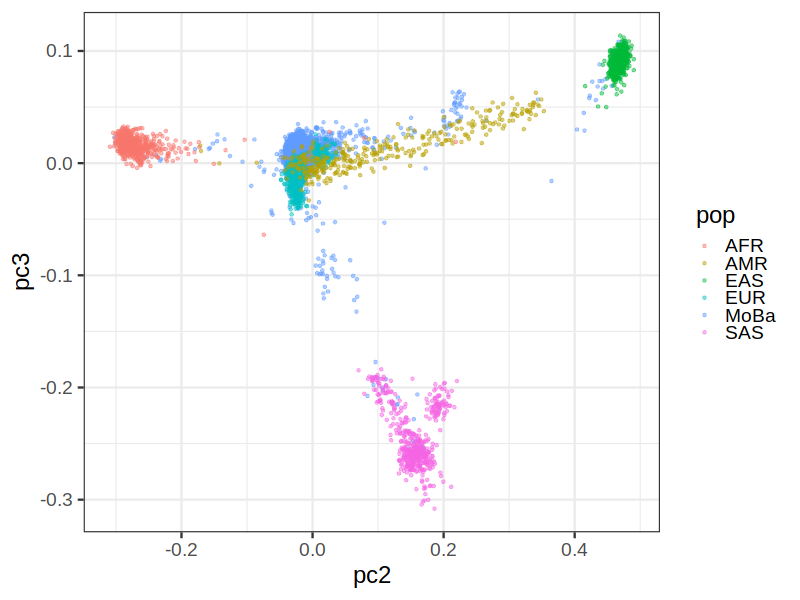
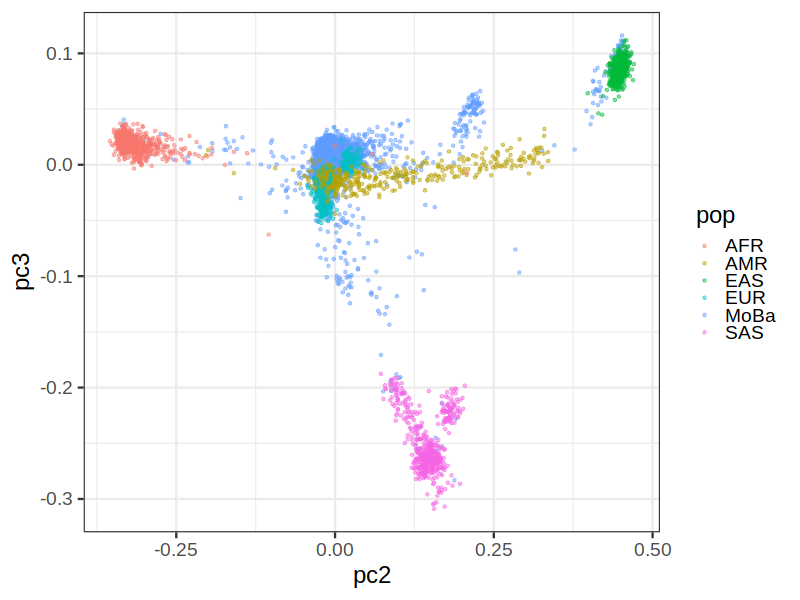
rerun PCA

diff --git a/qc-pipeline/docs/{batch}/pca.md b/qc-pipeline/docs/{batch}/pca.md
@@ -1,4 +1,4 @@
-# Principal Component Analysys (PCA) in snp014
+# Principal Component Analysys (PCA) in snp012
 Principal component analysis of the MoBa samples merged with the thousand genomes.
 | Population | Number of samples |
 | ---------- | ----------------- |
@@ -6,21 +6,38 @@ Principal component analysis of the MoBa samples merged with the thousand genome
 | AMR | 347 |
 | EAS | 504 |
 | EUR | 503 |
-| MoBa | 8913 |
+| MoBa | 17691 |
 | SAS | 489 |
 ### pc2 vs. pc1
 ![](plot/pc1_pc2.png)
 ### pc3 vs. pc2
+![](plot/pc1_pc2.png)
+### pc3 vs. pc2
+![](plot/pc2_pc3.png)
+### pc4 vs. pc3
 ![](plot/pc2_pc3.png)
 ### pc4 vs. pc3
 ![](plot/pc3_pc4.png)
 ### pc5 vs. pc4
 ![](plot/pc4_pc5.png)
 ### pc6 vs. pc5
+![](plot/pc3_pc4.png)
+### pc5 vs. pc4
 ![](plot/pc5_pc6.png)
 ### pc7 vs. pc6
+![](plot/pc4_pc5.png)
+### pc6 vs. pc5
 ![](plot/pc6_pc7.png)
 ### pc8 vs. pc7
+![](plot/pc5_pc6.png)
+### pc7 vs. pc6
+![](plot/pc7_pc8.png)
+### pc9 vs. pc8
+![](plot/pc6_pc7.png)
+### pc8 vs. pc7
+![](plot/pc8_pc9.png)
+### pc10 vs. pc9
+![](plot/pc9_pc10.png)
 ![](plot/pc7_pc8.png)
 ### pc9 vs. pc8
 ![](plot/pc8_pc9.png)
